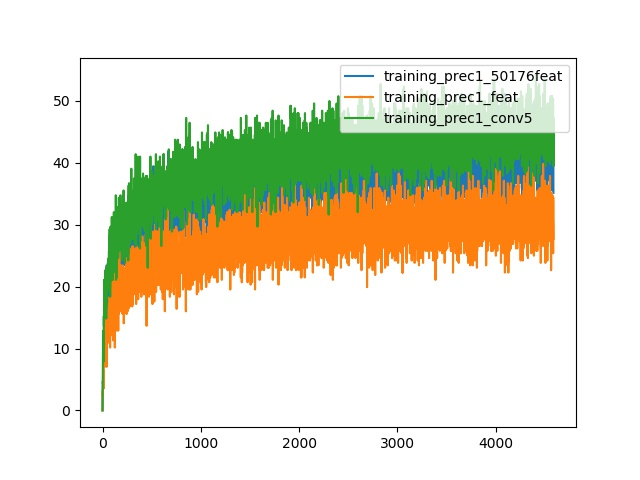
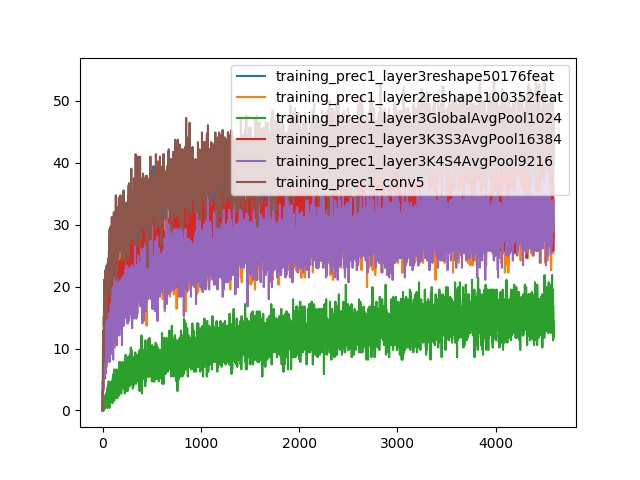
Modified the stride and kernel size to 4 for the layer 3 output feautre. This reduced the feature size to 9216 dimension. The results were not impressive. In this commit, also changed the naming convention of the log files. I tried to add the exp_*_seqFix experiment but git was failing to push may b

diff --git a/eval_linear_resnet.py b/eval_linear_resnet.py
@@ -209,19 +209,24 @@ class RegLog(nn.Module):
             # with global avg pooling
             #self.linear = nn.Linear(1024, num_labels)
 
-            self.av_pool = nn.AvgPool2d(3, stride=3, padding=0)
-            self.linear = nn.Linear(16384, num_labels)
-
             # for layer 2
             #self.linear = nn.Linear(100352, num_labels)
+
+            # feat dim 16384 for layer 3
+            #self.av_pool = nn.AvgPool2d(3, stride=3, padding=0)
+            #self.linear = nn.Linear(16384, num_labels)
+
+            self.av_pool = nn.AvgPool2d(4, stride=4, padding=0)
+            self.linear = nn.Linear(9216, num_labels)
 
     def forward(self, x):
         #print('befre avg pool', x.shape)
         x = self.av_pool(x)
         #print('after avg pool', x.shape)
         x = x.view(x.size(0), x.size(1) * x.size(2) * x.size(3))
-        # results in an output of 256, 50176
+        # results in an output of 256, 50176 for layer3
         #print('in reg', x.shape)
+        #exit()
         return self.linear(x)
 
 

diff --git a/plotting/eval_plotter.py b/plotting/eval_plotter.py
@@ -3,8 +3,12 @@ import matplotlib.pyplot as plt
 root = '/home/biometrics/deepcluster-git/deepcluster/'
 
 
-folders = [root+"""exp_uz_resnet_K1000_seqFix/linear_classif_layer3_50176feat/log_conv_layer3_50176feat.txt""",
-           root+"""exp_uz_resnet_K1000_seqFix/linear_classif_layer2_feat/log_conv_layer2_feat.txt""",
+folders = [root+"""exp_uz_resnet_K1000_seqFix/linear_classif_layer3_50176feat/log_conv_layer3reshape50176feat.txt""",
+           root+"""exp_uz_resnet_K1000_seqFix/linear_classif_layer2_feat/log_conv_layer2reshape100352feat.txt""",
+           root+"""exp_uz_resnet_K1000_seqFix/linear_classif_layer3Avgpool/log_conv_layer3GlobalAvgPool1024.txt""",
+           root+"""exp_uz_resnet_K1000_seqFix/linear_classif_layer3EngPool/log_conv_layer3K3S3AvgPool16384.txt""",
+           root+"""exp_uz_resnet_K1000_seqFix/linear_classif_layer3EngPoolstride4/log_conv_layer3K4S4AvgPool9216.txt""",
+
            root+"""results/exp/linear_classif/log_conv5.txt"""]
 
 
